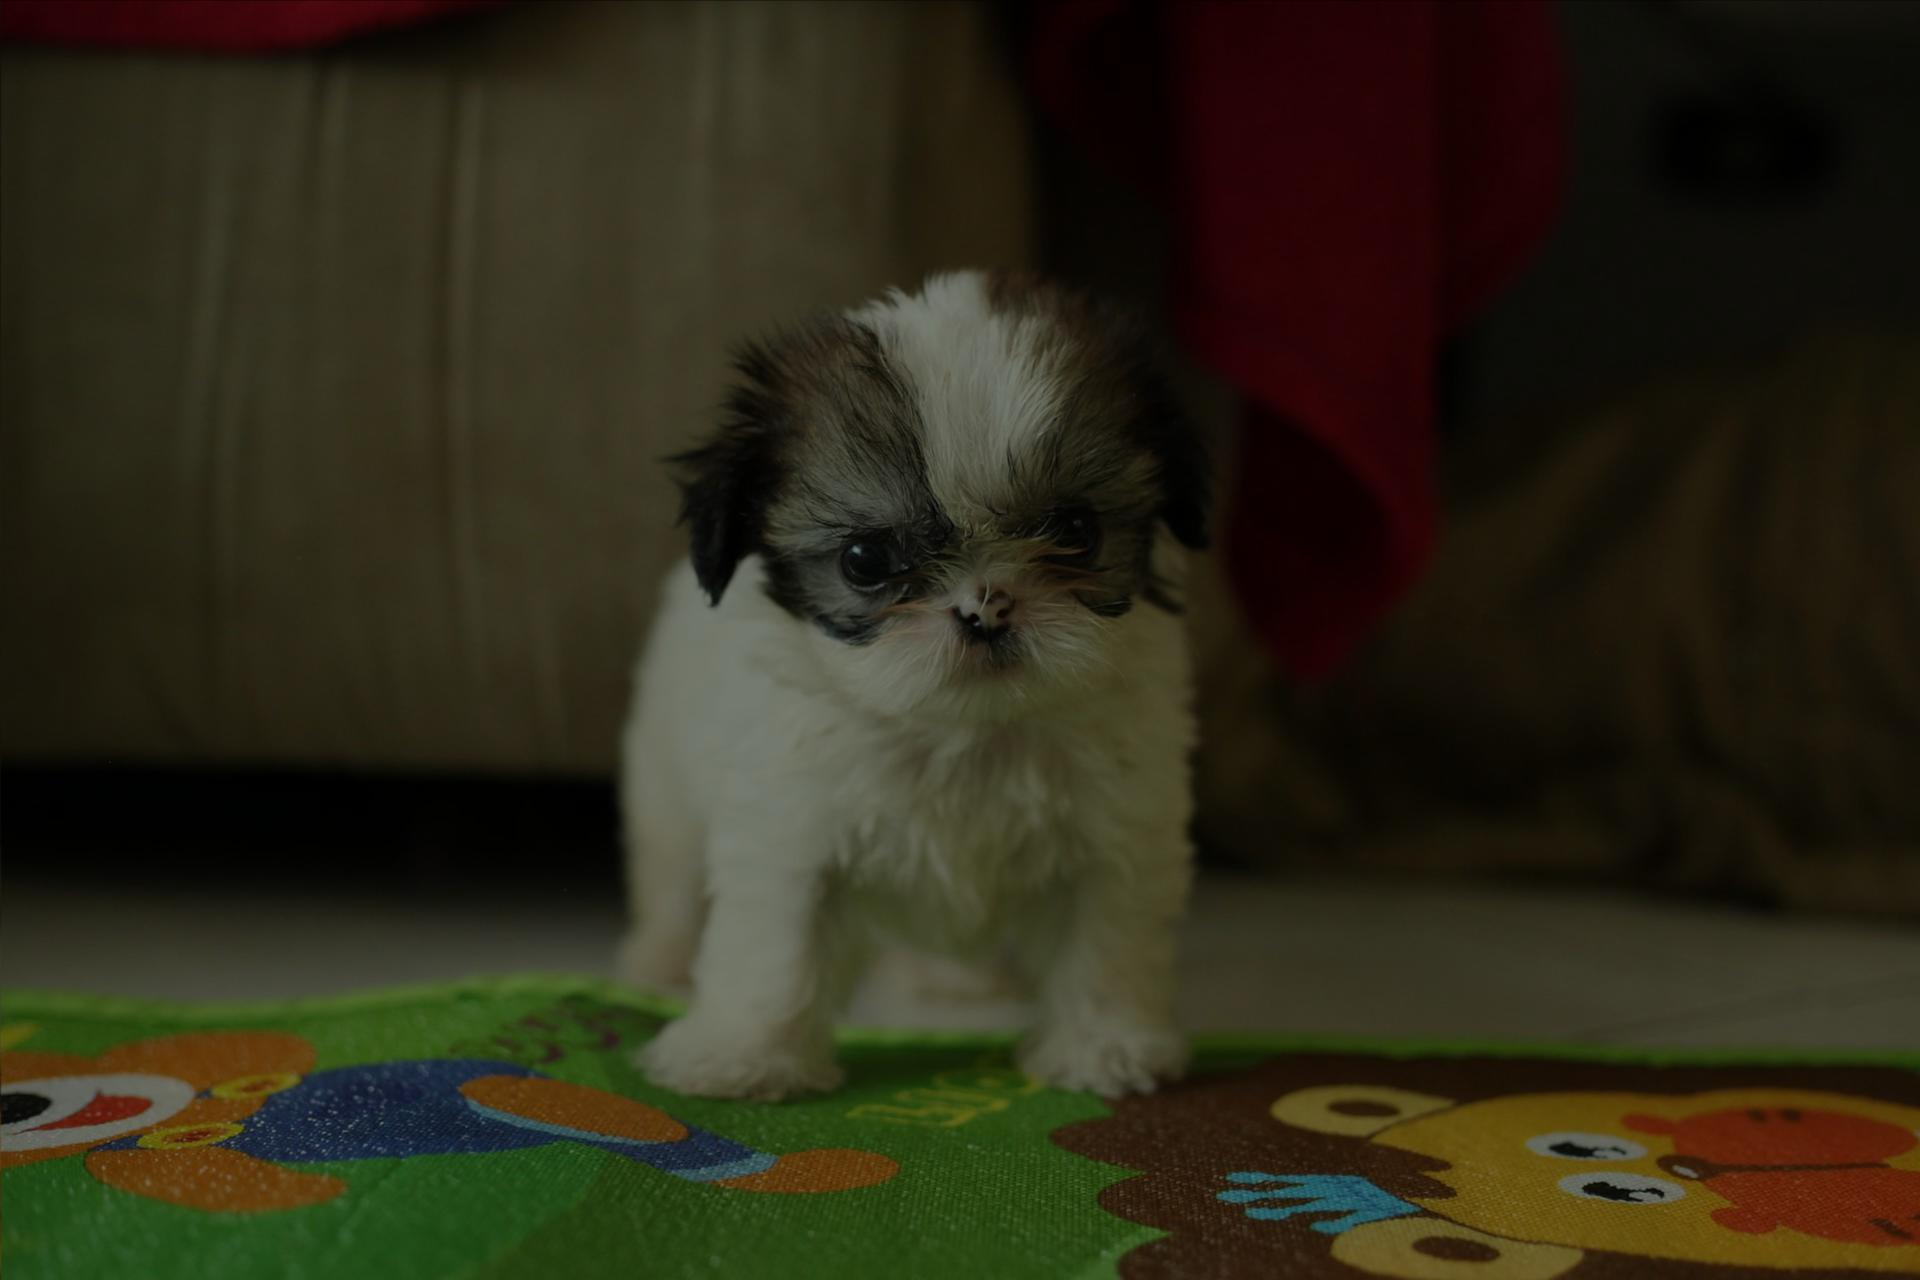
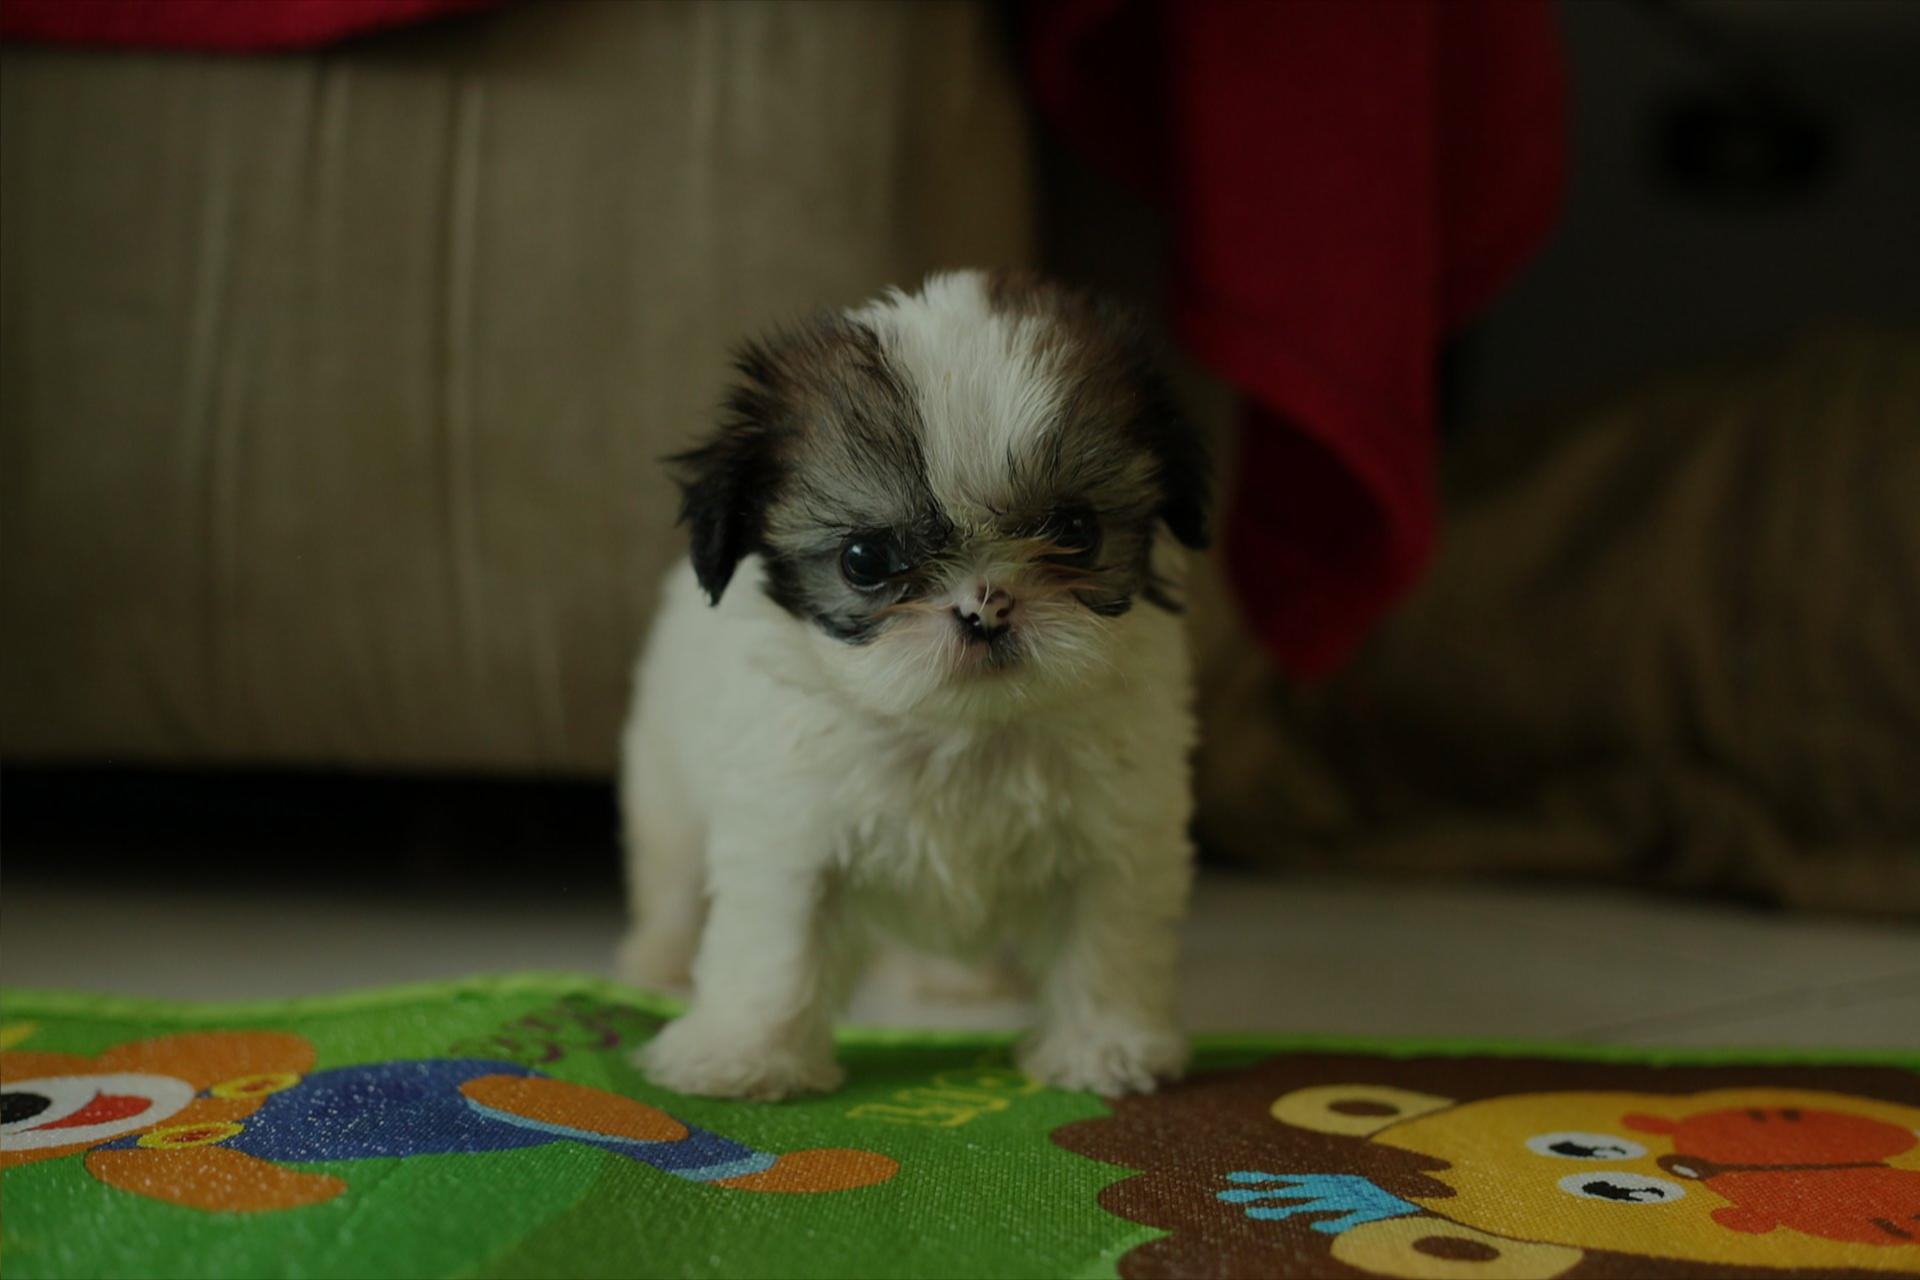
imagens sem escurecer

diff --git a/src/blur_threads.c b/src/blur_threads.c
@@ -9,15 +9,15 @@
 
 // Struct para guardar apenas 1 cor e a largura e altura dela
 typedef struct argument{
-	float *color;
+	float *color, *d;
 	int width, height;
 } argument;
 
 void *worker(void *arg){
 	argument *real_arg = (argument *) arg; 						// Faz um cast para o tipo original
-	blur(real_arg->color, real_arg->width, real_arg->height, N, real_arg->color); 	// Realiza o blur
+	blur(real_arg->color, real_arg->width, real_arg->height, N, real_arg->d); 	// Realiza o blur
 	
-	return (void *) real_arg->color; 				// Retorna o novo vetor com o blur aplicado
+	return (void *) real_arg->d; 				// Retorna o novo vetor com o blur aplicado
 }
 
 
@@ -32,14 +32,17 @@ int main(int argc, char *argv[]){
 	argument r_arg, g_arg, b_arg;
 	
 	r_arg.color = I.r;
+	r_arg.d = malloc(sizeof(float)*I.width*I.height);
 	r_arg.width = I.width;
 	r_arg.height = I.height;
 	
 	g_arg.color = I.g;
+	g_arg.d = malloc(sizeof(float)*I.width*I.height);
 	g_arg.width = I.width;
 	g_arg.height = I.height;
 
 	b_arg.color = I.b;
+	b_arg.d = malloc(sizeof(float)*I.width*I.height);
 	b_arg.width = I.width;
 	b_arg.height = I.height;
 	
@@ -60,6 +63,9 @@ int main(int argc, char *argv[]){
 	
 	// Salva a imagem e libera ela
 	salvar_imagem(argv[2], &I);
+	free(r_arg.d);
+	free(g_arg.d);
+	free(b_arg.d);
 	liberar_imagem(&I);
 	
 	return 0;

diff --git a/src/blur_linear.c b/src/blur_linear.c
@@ -1,20 +1,31 @@
 #include <stdio.h>
 #include "imageprocessing.h"
 #include "blur.h"
+#include <stdlib.h>
 
 #define N 3
 
 int main(int argc, char *argv[]) {
 	
 	imagem I;
+	imagem i;
 	
 	I = abrir_imagem(argv[1]);
-		
-	blur(I.r, I.width, I.height, N, I.r);
-	blur(I.g, I.width, I.height, N, I.g);
-	blur(I.b, I.width, I.height, N, I.b);
 	
-	salvar_imagem(argv[2], &I);
+	i.width = I.width;
+	i.height = I.height;
+	i.r = malloc(sizeof(float)*I.width*I.height);
+	i.g = malloc(sizeof(float)*I.width*I.height);
+	i.b = malloc(sizeof(float)*I.width*I.height);
+		
+	blur(I.r, I.width, I.height, N, i.r);
+	blur(I.g, I.width, I.height, N, i.g);
+	blur(I.b, I.width, I.height, N, i.b);
+	
+	salvar_imagem(argv[2], &i);
+	free(i.r);
+	free(i.g);
+	free(i.b);
 	liberar_imagem(&I);
 	
 	return 0;
